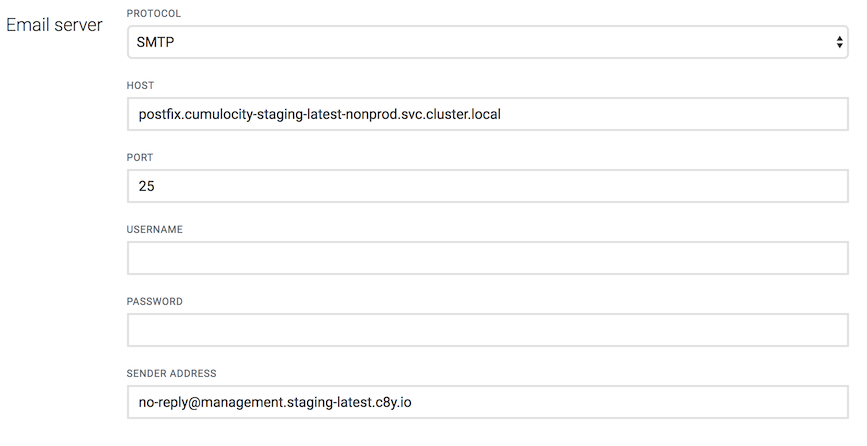
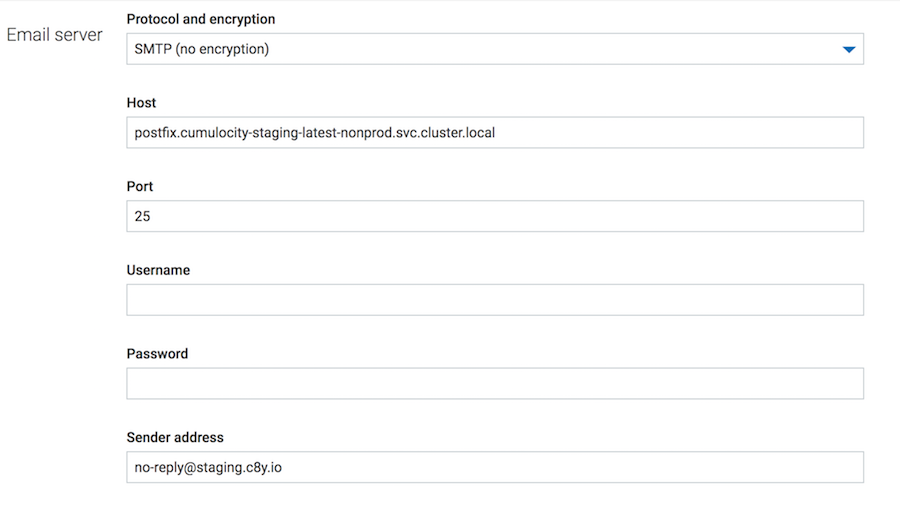
modified email server configuration description, replaced screenshot

diff --git a/content/users-guide/administration-bundle/changing-settings.md b/content/users-guide/administration-bundle/changing-settings.md
@@ -247,11 +247,17 @@ Under **Configuration** in the **Settings** menu, you can configure system-wide 
 
 ![Configuration settings](/guides/images/users-guide/Administration/admin-settings-configuration.png)
 
+#### Two-factor authentication
+
 In the **Two-factor authentication** section, you can change the SMS template which is sent to the users.
+
+#### Support link
 
 In the **Support link** section, you can enter a URL to be used to link to a Support page. If you do not provide a link here, the default link to the Cumulocity Support will be used. 
 
 Enter "false" to hide the link.
+
+#### Password reset
 
 In the **Password reset** section you can change all settings related to password reset email templates.
 
@@ -267,17 +273,33 @@ In the following two fields provide an email template to be used on password cha
 
 >**Info**: Placeholders to be used are: {host}, {tenant-domain}, {token}. 
 
-In the **Email server** section, you can provide the protocol, host, port, username, password and sender address for the email server.
+#### Email server
+
+In the **Email server** section, you can configure custom email server settings. 
 
 <img src="/guides/images/users-guide/Administration/admin-settings-configuration-email-server.png" alt="Configure email server">
+
+In the **Protocol and encryption** field, select a protocol/encryption type from the dropdown list. May be one of: 
+
+* SMTP (no encryption): email.protocol=smtp and email.connection.encrypted=false
+* SMTP (STARTTLS): email.protocol=smtp and email.connection.encrypted=true
+* SMTPS (SSL/TLS): email.protocol=smtps and email.connection.encrypted=true
+
+Provide the host, port, username, password and sender address for the email server.
+
+#### Data export
 
 In the **Data export** section, you can set the email subject and email template for data export and specify the **User unauthorized error message**.
 
 ![Data export settings](/guides/images/users-guide/Administration/admin-settings-configuration-data-export.png)
 
+#### Storage limit
+
 In the **Storage limit** section, you can specify the email subject and email template for emails being send *before* data is removed on exceeding the storage limit and *after* data removal is performed.
 
 ![Storage limit settings](/guides/images/users-guide/Administration/admin-settings-configuration-storage-limit.png)
+
+#### Suspending tenants
 
 In the **Suspending tenants** section, you can provide settings for emails being send on tenant suspension. 
 
@@ -287,7 +309,7 @@ At the top you can select if you want to send the email to the suspended tenant'
 
 Click **Save configuration** to save your settings.
 
-Additional features are available for Enterprise Tenants, see [Enterprise Tenant > Customizing your platform](/guides/users-guide/enterprise-edition#customization).
+Additional features are available for Enterprise Tenants, see > [Enterprise Tenant > Customizing your platform](/guides/users-guide/enterprise-edition#customization).
 
 ### <a name="connectivity"></a>Managing the connectivity settings
 
